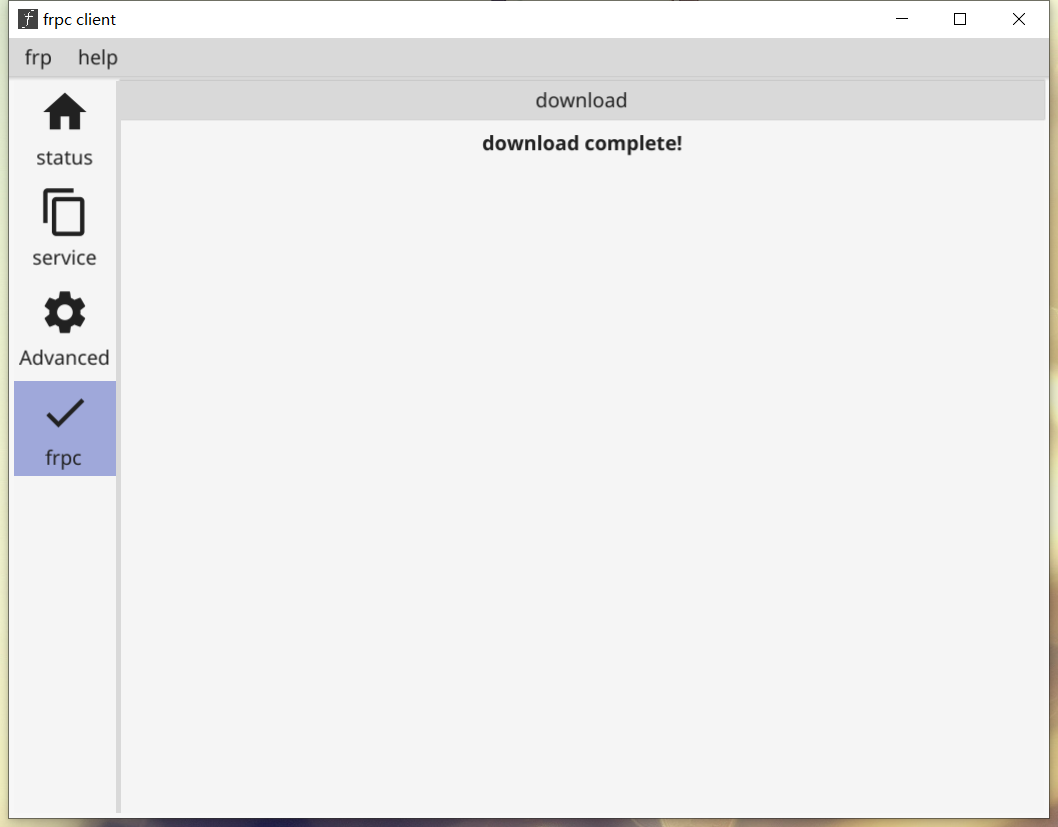
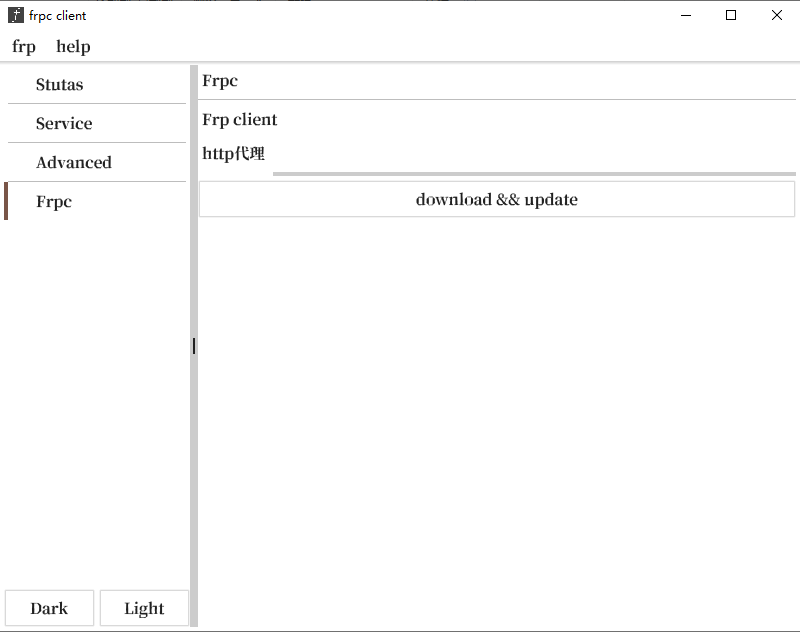
更新 README.md

Changed region(s): [[0.0, 0.0, 1.0, 1.0]]

diff --git a/README.md b/README.md
@@ -30,4 +30,10 @@ frp 客户端可视化（目前只支持windows系统）
 
 <h2>更新日志：</h2>
 
-2020-8-31  v0.1基本使用
+- 2020-11-19 v0.2
+    1. 更新依赖组件、调整ui
+    2. 提取 `frpc.ini` 文件到根目录，可更新 `frp` 软件
+    3. 增加 http 代理，加快 github 下载速度
+    4. 增加 linux 平台使用
+    
+- 2020-8-31  v0.1基本使用
